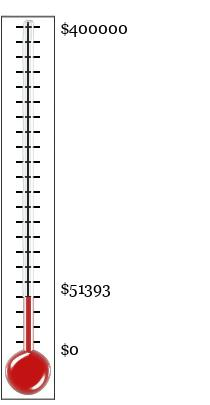
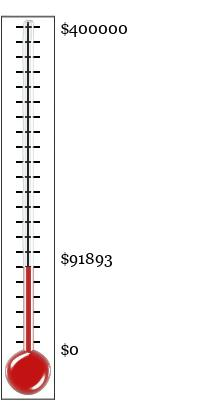
2025 fundraising update: $91893; Carl Zeiss AC becomes a Bronze supporter.

Changed region(s): [[0.2857, 0.6222, 0.5429, 0.7407], [0.0857, 0.6519, 0.1714, 0.7407]]

diff --git a/contributors.html b/contributors.html
@@ -119,10 +119,12 @@ On request we will provide a link to your website for donations of
 <LI><A HREF=https://cert.br>CERT.br/NIC.br</A>
 <LI><A HREF=https://www.genua.de>genua gmbh</A>
 <LI><A HREF=donations.html>Total from smaller donors</A>
+<LI><A HREF=https://www.zeiss.com>Carl Zeiss AG</A>
 </UL>
 <LI> Bronze: $5,000 to $10,000
 <UL>
 <LI><A HREF=https://openbsd.amsterdam>OpenBSD Amsterdam</A>
+</UL>
 </UL>
 <HR>
 <A HREF=campaign2024.html><h4>2024 Fundraising Campaign</h4></A>
